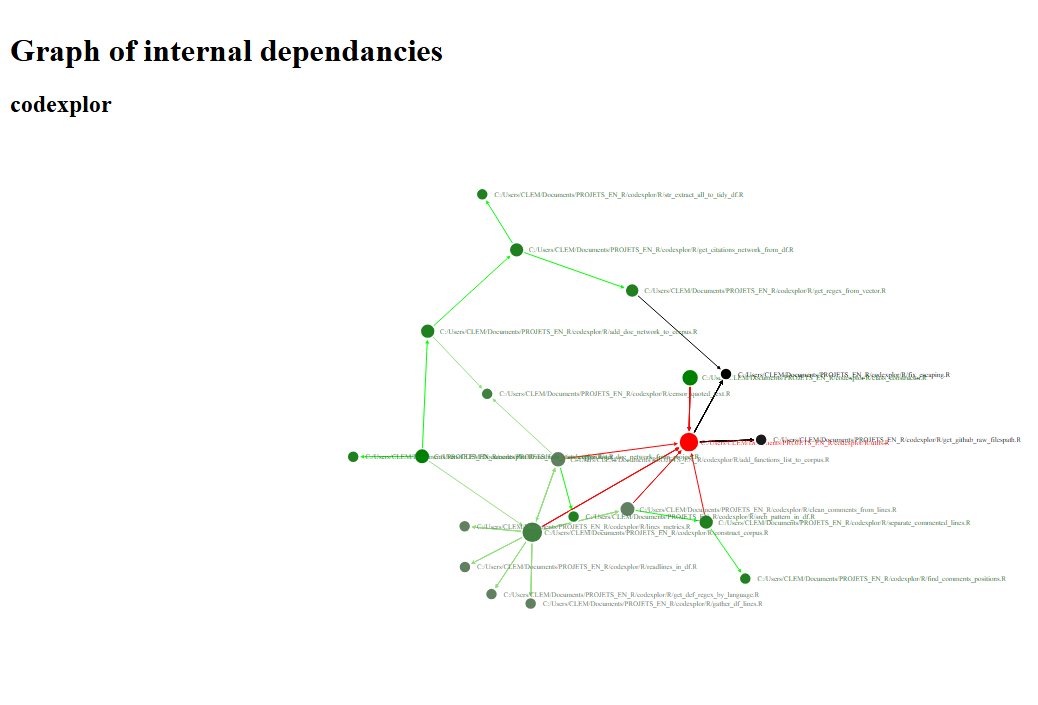
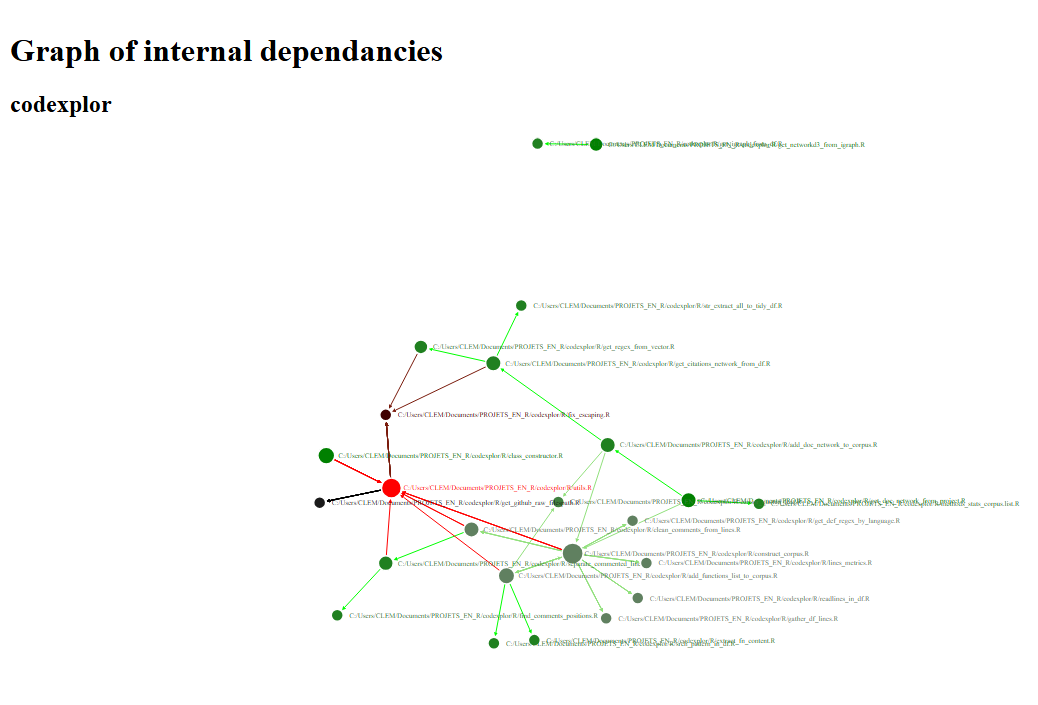
1st implement of function level metrics

diff --git a/man/figures/network_codexplor_fn.html b/man/figures/network_codexplor_fn.html
@@ -1231,10 +1231,10 @@ return function(){for(var n=0,e=0;e<t;++e)n+=Math.random();return n}},um=functio
 <div id="htmlwidget_container">
   <h1>Graph of internal dependancies</h1>
   <h2>codexplor</h2>
-  <div class="forceNetwork html-widget html-fill-item" id="htmlwidget-0a5909bde14e5a97d191" style="width:960px;height:500px;"></div>
+  <div class="forceNetwork html-widget html-fill-item" id="htmlwidget-228a676abb3419faff20" style="width:960px;height:500px;"></div>
   <h3>Color and links = indegrees</h3>
 </div>
-<script type="application/json" data-for="htmlwidget-0a5909bde14e5a97d191">{"x":{"links":{"source":[0,1,1,1,2,3,1,1,1,3,0,6,7,8,8,8,8,8,8,8,8,1,1,1,2,1,1,1,8,8,8,8,8,8,8,8,9,10,1,1,1,0,1,1,1,5,3,10,3,4,4,4,4,4,1,5,4,5,1,1,6],"target":[2,3,3,3,12,12,5,5,5,1,1,14,15,15,15,15,15,15,15,15,15,16,16,16,10,17,17,17,18,18,18,18,18,18,18,18,19,7,13,13,13,11,20,20,20,6,21,22,8,8,8,8,8,8,8,8,8,8,8,8,8],"colour":["#00FF00","#91E07C","#91E07C","#91E07C","#91E07C","#91E07C","#91E07C","#91E07C","#91E07C","#91E07C","#91E07C","#00FF00","#000000","#000000","#000000","#000000","#000000","#000000","#000000","#000000","#000000","#91E07C","#91E07C","#91E07C","#00FF00","#91E07C","#91E07C","#91E07C","#000000","#000000","#000000","#000000","#000000","#000000","#000000","#000000","#00FF00","#00FF00","#91E07C","#91E07C","#91E07C","#00FF00","#91E07C","#91E07C","#91E07C","#00FF00","#00FF00","#00FF00","#FF0000","#FF0000","#FF0000","#FF0000","#FF0000","#FF0000","#FF0000","#FF0000","#FF0000","#FF0000","#FF0000","#FF0000","#FF0000"]},"nodes":{"name":["C:/Users/CLEM/Documents/PROJETS_EN_R/codexplor/R/get_doc_network_from_project.R","C:/Users/CLEM/Documents/PROJETS_EN_R/codexplor/R/construct_corpus.R","C:/Users/CLEM/Documents/PROJETS_EN_R/codexplor/R/add_doc_network_to_corpus.R","C:/Users/CLEM/Documents/PROJETS_EN_R/codexplor/R/add_functions_list_to_corpus.R","C:/Users/CLEM/Documents/PROJETS_EN_R/codexplor/R/class_constructor.R","C:/Users/CLEM/Documents/PROJETS_EN_R/codexplor/R/clean_comments_from_lines.R","C:/Users/CLEM/Documents/PROJETS_EN_R/codexplor/R/separate_commented_lines.R","C:/Users/CLEM/Documents/PROJETS_EN_R/codexplor/R/get_regex_from_vector.R","C:/Users/CLEM/Documents/PROJETS_EN_R/codexplor/R/utils.R","C:/Users/CLEM/Documents/PROJETS_EN_R/codexplor/R/get_networkd3_from_igraph.R","C:/Users/CLEM/Documents/PROJETS_EN_R/codexplor/R/get_citations_network_from_df.R","C:/Users/CLEM/Documents/PROJETS_EN_R/codexplor/R/methods_stats_corpus.list.R","C:/Users/CLEM/Documents/PROJETS_EN_R/codexplor/R/censor_quoted_text.R","C:/Users/CLEM/Documents/PROJETS_EN_R/codexplor/R/lines_metrics.R","C:/Users/CLEM/Documents/PROJETS_EN_R/codexplor/R/find_comments_positions.R","C:/Users/CLEM/Documents/PROJETS_EN_R/codexplor/R/fix_escaping.R","C:/Users/CLEM/Documents/PROJETS_EN_R/codexplor/R/gather_df_lines.R","C:/Users/CLEM/Documents/PROJETS_EN_R/codexplor/R/get_def_regex_by_language.R","C:/Users/CLEM/Documents/PROJETS_EN_R/codexplor/R/get_github_raw_filespath.R","C:/Users/CLEM/Documents/PROJETS_EN_R/codexplor/R/get_igraph_from_df.R","C:/Users/CLEM/Documents/PROJETS_EN_R/codexplor/R/readlines_in_df.R","C:/Users/CLEM/Documents/PROJETS_EN_R/codexplor/R/srch_pattern_in_df.R","C:/Users/CLEM/Documents/PROJETS_EN_R/codexplor/R/str_extract_all_to_tidy_df.R"],"group":[0,2,1,3,0,3,1,1,13,0,1,1,2,3,1,9,3,3,8,1,3,1,1],"nodesize":[3,21,2,4,6,3,2,1,16,1,2,0,0,0,0,0,0,0,0,0,0,0,0]},"options":{"NodeID":"name","Group":"indegree","colourScale":"d3.scaleLinear().domain([0, 4, 9, 13]).range([\"green\", \"grey\", \"black\", \"red\"]).clamp(true);","fontSize":7,"fontFamily":"serif","clickTextSize":17.5,"linkDistance":50,"linkWidth":"function(d) { return 1; }","charge":-200,"opacity":1,"zoom":true,"legend":false,"arrows":true,"nodesize":true,"radiusCalculation":" Math.sqrt(d.nodesize)+6","bounded":true,"opacityNoHover":0.9,"clickAction":null}},"evals":[],"jsHooks":[]}</script>
-<script type="application/htmlwidget-sizing" data-for="htmlwidget-0a5909bde14e5a97d191">{"viewer":{"width":450,"height":350,"padding":10,"fill":true},"browser":{"width":960,"height":500,"padding":10,"fill":true}}</script>
+<script type="application/json" data-for="htmlwidget-228a676abb3419faff20">{"x":{"links":{"source":[0,1,1,1,2,3,1,1,1,2,0,3,3,6,9,7,7,8,7,7,7,7,7,7,1,1,1,2,1,1,1,7,7,7,7,7,7,7,7,10,9,1,1,1,0,1,1,1,5,3,9,3,6,4,4,4,4,4,4,1,5,5,1,1],"target":[2,3,3,3,12,12,5,5,5,1,1,1,14,15,16,16,16,16,16,16,16,16,16,16,17,17,17,9,18,18,18,19,19,19,19,19,19,19,19,20,8,13,13,13,11,21,21,21,6,22,23,7,7,7,7,7,7,7,7,7,7,7,7,7],"colour":["#00FF00","#91E07C","#91E07C","#91E07C","#91E07C","#91E07C","#91E07C","#91E07C","#91E07C","#91E07C","#91E07C","#91E07C","#00FF00","#00FF00","#7A1B0C","#7A1B0C","#7A1B0C","#7A1B0C","#7A1B0C","#7A1B0C","#7A1B0C","#7A1B0C","#7A1B0C","#7A1B0C","#91E07C","#91E07C","#91E07C","#00FF00","#91E07C","#91E07C","#91E07C","#000000","#000000","#000000","#000000","#000000","#000000","#000000","#000000","#00FF00","#00FF00","#91E07C","#91E07C","#91E07C","#00FF00","#91E07C","#91E07C","#91E07C","#00FF00","#00FF00","#00FF00","#FF0000","#FF0000","#FF0000","#FF0000","#FF0000","#FF0000","#FF0000","#FF0000","#FF0000","#FF0000","#FF0000","#FF0000","#FF0000"]},"nodes":{"name":["C:/Users/CLEM/Documents/PROJETS_EN_R/codexplor/R/get_doc_network_from_project.R","C:/Users/CLEM/Documents/PROJETS_EN_R/codexplor/R/construct_corpus.R","C:/Users/CLEM/Documents/PROJETS_EN_R/codexplor/R/add_doc_network_to_corpus.R","C:/Users/CLEM/Documents/PROJETS_EN_R/codexplor/R/add_functions_list_to_corpus.R","C:/Users/CLEM/Documents/PROJETS_EN_R/codexplor/R/class_constructor.R","C:/Users/CLEM/Documents/PROJETS_EN_R/codexplor/R/clean_comments_from_lines.R","C:/Users/CLEM/Documents/PROJETS_EN_R/codexplor/R/separate_commented_lines.R","C:/Users/CLEM/Documents/PROJETS_EN_R/codexplor/R/utils.R","C:/Users/CLEM/Documents/PROJETS_EN_R/codexplor/R/get_regex_from_vector.R","C:/Users/CLEM/Documents/PROJETS_EN_R/codexplor/R/get_citations_network_from_df.R","C:/Users/CLEM/Documents/PROJETS_EN_R/codexplor/R/get_networkd3_from_igraph.R","C:/Users/CLEM/Documents/PROJETS_EN_R/codexplor/R/methods_stats_corpus.list.R","C:/Users/CLEM/Documents/PROJETS_EN_R/codexplor/R/censor_quoted_text.R","C:/Users/CLEM/Documents/PROJETS_EN_R/codexplor/R/lines_metrics.R","C:/Users/CLEM/Documents/PROJETS_EN_R/codexplor/R/extract_fn_content.R","C:/Users/CLEM/Documents/PROJETS_EN_R/codexplor/R/find_comments_positions.R","C:/Users/CLEM/Documents/PROJETS_EN_R/codexplor/R/fix_escaping.R","C:/Users/CLEM/Documents/PROJETS_EN_R/codexplor/R/gather_df_lines.R","C:/Users/CLEM/Documents/PROJETS_EN_R/codexplor/R/get_def_regex_by_language.R","C:/Users/CLEM/Documents/PROJETS_EN_R/codexplor/R/get_github_raw_filespath.R","C:/Users/CLEM/Documents/PROJETS_EN_R/codexplor/R/get_igraph_from_df.R","C:/Users/CLEM/Documents/PROJETS_EN_R/codexplor/R/readlines_in_df.R","C:/Users/CLEM/Documents/PROJETS_EN_R/codexplor/R/srch_pattern_in_df.R","C:/Users/CLEM/Documents/PROJETS_EN_R/codexplor/R/str_extract_all_to_tidy_df.R"],"group":[0,3,1,3,0,3,1,13,1,1,0,1,2,3,1,1,10,3,3,8,1,3,1,1],"nodesize":[3,21,3,5,6,3,2,16,1,3,1,0,0,0,0,0,0,0,0,0,0,0,0,0]},"options":{"NodeID":"name","Group":"indegree","colourScale":"d3.scaleLinear().domain([0, 4, 9, 13]).range([\"green\", \"grey\", \"black\", \"red\"]).clamp(true);","fontSize":7,"fontFamily":"serif","clickTextSize":17.5,"linkDistance":50,"linkWidth":"function(d) { return 1; }","charge":-200,"opacity":1,"zoom":true,"legend":false,"arrows":true,"nodesize":true,"radiusCalculation":" Math.sqrt(d.nodesize)+6","bounded":true,"opacityNoHover":0.9,"clickAction":null}},"evals":[],"jsHooks":[]}</script>
+<script type="application/htmlwidget-sizing" data-for="htmlwidget-228a676abb3419faff20">{"viewer":{"width":450,"height":350,"padding":10,"fill":true},"browser":{"width":960,"height":500,"padding":10,"fill":true}}</script>
 </body>
 </html>

diff --git a/README.md b/README.md
@@ -58,18 +58,18 @@ library(codexplor)
                                          , languages = "R" )
     str(corpus, max.level = 1)
 #> List of 5
-#>  $ codes                :Classes 'corpus.lines' and 'data.frame':    1620 obs. of  10 variables:
-#>  $ comments             :Classes 'corpus.lines' and 'data.frame':    1133 obs. of  9 variables:
-#>  $ files                :Classes 'corpus.nodelist' and 'data.frame': 27 obs. of  10 variables:
-#>  $ functions            :Classes 'corpus.nodelist' and 'data.frame': 40 obs. of  4 variables:
-#>  $ internal.dependencies:Classes 'citations.network', 'internal.dependancies' and 'data.frame':  61 obs. of  6 variables:
+#>  $ codes                :Classes 'corpus.lines' and 'data.frame':    1713 obs. of  10 variables:
+#>  $ comments             :Classes 'corpus.lines' and 'data.frame':    1168 obs. of  9 variables:
+#>  $ files                :Classes 'corpus.nodelist' and 'data.frame': 28 obs. of  10 variables:
+#>  $ functions            :Classes 'corpus.nodelist' and 'data.frame': 41 obs. of  4 variables:
+#>  $ internal.dependencies:Classes 'citations.network', 'internal.dependancies' and 'data.frame':  64 obs. of  6 variables:
 #>  - attr(*, "class")= chr [1:2] "list" "corpus.list"
-#>  - attr(*, "date_creation")= Date[1:1], format: "2025-03-09"
+#>  - attr(*, "date_creation")= Date[1:1], format: "2025-03-10"
 #>  - attr(*, "have_citations_network")= logi TRUE
 ```
 
-**2. See various dataviz’ from a corpus.list.** Given a `corpus.list`
-with some `citations.network` `data.frame`, look at the dataviz’ with
+**2. See a dataviz’ from a corpus.list.** Given a `corpus.list`, look at
+the dataviz’ of a `citations.network` `data.frame` with
 `codexplor::get_networkd3_from_igraph` :
 
 ``` r
@@ -100,7 +100,7 @@ local insights on a programming project.
 |:---|:---|:---|
 | ![.](https://img.shields.io/badge/✔-bold?style=flat&logoColor=black&logoSize=2&label=Network%20of%20internal%20dependencies&labelColor=black&color=green) | Appreciate global complexity and figure out the pig picture | Reveal critical files, e.g., major internal dependancies |
 | ![.](https://img.shields.io/badge/%7B🚧%7D-bold?style=flat&logoColor=black&logoSize=2&label=Document-level%20metrics&labelColor=grey&color=orange) | Reveal clusters of ‘difficult-to-read’ files | Assess each file with text-mining metrics, e.g., length and files readability |
-| ![.](https://img.shields.io/badge/%7B🚧%7D-bold?style=flat&logoColor=black&logoSize=2&label=Function-level%20metrics&labelColor=grey&color=red) | Reveal the most complex functions | Identify problematic functions, e.g., the longest ones |
+| ![.](https://img.shields.io/badge/%7B🚧%7D-bold?style=flat&logoColor=black&logoSize=2&label=Function-level%20metrics&labelColor=grey&color=orange) | Reveal the most complex functions | Identify problematic functions, e.g., the longest ones |
 | ![.](https://img.shields.io/badge/%7B🚧%7D-bold?style=flat&logoColor=black&logoSize=2&label=Line-level%20metrics&labelColor=grey&color=green) | ↑ (used by global level metric) | Identify problematic lines |
 
 <!-- FEATURES are on 3 flex-columns : -->
